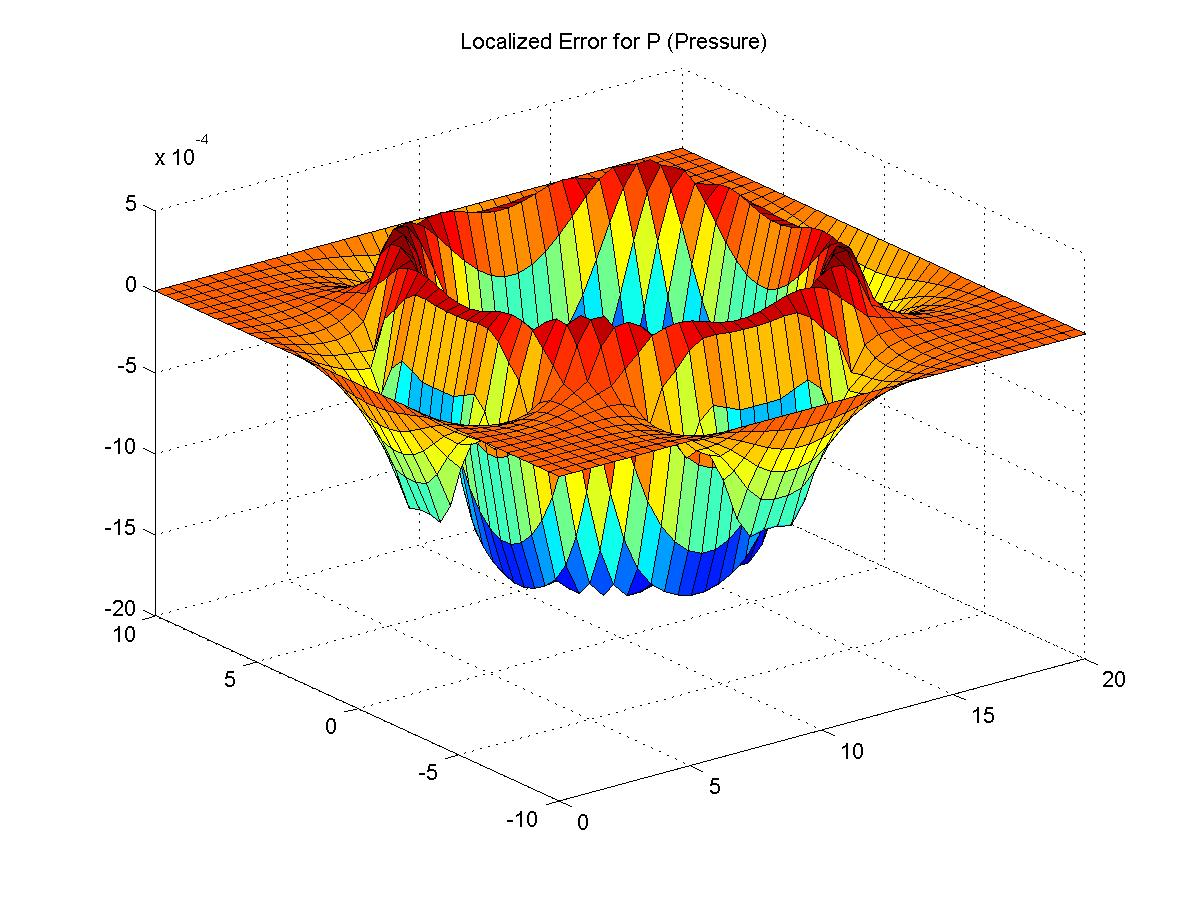
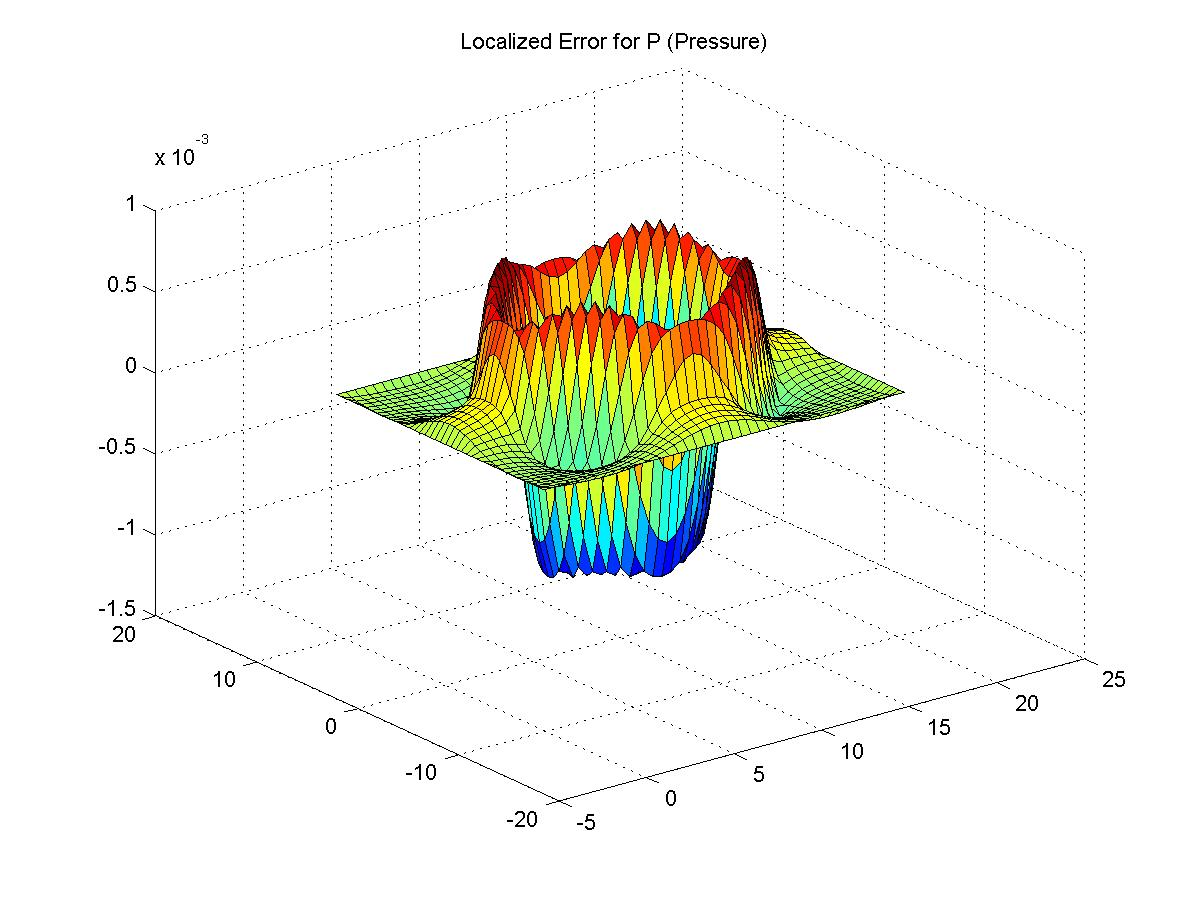
Staggered Grid
Changed to full staggered grid.  We have second order convergence!!!
(Well, slightly under)

diff --git a/Main.m b/Main.m
@@ -20,7 +20,7 @@ width = 20;
 R = 5;
 L = 5;
 %T = .25;
-timeSteps = 5;
+timeSteps = 10;
 
 quivRes = 1;
 %%%%%%%%%%%%%%%%%%%%%%%%%%%%%%%%%%%%%%%%%%%%%%%%%%%%%%%%%%%%%%%%%%%%%%%%%%
@@ -30,25 +30,11 @@ quivRes = 1;
 %Compute Stokes2DPCwith a high discretization and use it as the "analytical" solution
 %%%%%%%%%%%%%%%%%%%%%%%%%%%%%%%%%%%%%%%%%%%%%%%%%%%%%%%%%%%%%%%%%%%%%%%%%%
 %tic;
-[P U V X Y NUMXCELLS NUMYCELLS] = Stokes2DPC(g, 40, p0, mu, height, width, R,L, timeSteps, 0);
+[P U V X Y Xp Yp NUMXCELLS NUMYCELLS] = Stokes2DPC(g, 40, p0, mu, height, width, R,L, timeSteps, 0);
 
 %[P U V X Y NUMXCELLS NUMYCELLS] = pTest(height, width, R, L, timeSteps, 100);
 
 %toc;
-
-% i=2;
-% figure(6);
-% hold on;
-% quiver(X(1:quivRes:end,1:quivRes:end),Y(1:quivRes:end,1:quivRes:end),U(1:quivRes:end,1:quivRes:end, i),V(1:quivRes:end,1:quivRes:end, i));
-% z = (X - (R + L)).^2 + Y.^2 - R^2;
-% contour(X,Y,z,[0,0]);
-% streamline(X,Y,U(:,:,i),V(:,:,i),.1,1);
-% streamline(X,Y,U(:,:,i),V(:,:,i),.1,-1);
-% % streamline(X,Y,U,V,-width / 2, 0.1);
-% % streamline(X,Y,U,V,-width / 2, -0.1);
-% drawnow;
-% hold off;
-
 
 %surf(X,Y,U(:,:,2));
 
@@ -89,7 +75,7 @@ if animate
         title(message);
 
         figure();
-        surf(X,Y,P(:,:,i));
+        surf(Xp,Yp,P(:,:,i));
         message = sprintf('P, t = %f', i);
         title(message);
         drawnow;
@@ -118,29 +104,19 @@ if checkError
     for i = 1:length(testPoints)
         testPoints(i)
         tic;
-        [ p u v x y numXCells numYCells dx(i)] = Stokes2DPC(g, testPoints(i), p0, mu, height, width, R, L, timeSteps, 0);
+        [ p u v x y xp yp numXCells numYCells dx(i)] = Stokes2DPC(g, testPoints(i), p0, mu, height, width, R, L, timeSteps, 0);
         
-        %[p u v x y numXCells numYCells] = pTest(height, width, R, L, timeSteps, testPoints(i));
-        %[p u v x y numXCells numYCells] = pTest(height, width, R, L, timeSteps, 19);
         dx(i) = y(2,1) - y(1,1);
         
         %%%%%Interp must go from coarse to fine, not fine to coarse!!!!!!%%%%%%%
 
-        [P U V] = pTest(x,y,R,L);
+        [P U V] = pTest(x,y,xp,yp,R,L);
         
         if Linf
-%             L2EP(i) = max(max(abs(interp2(x,y,p(:,:,timeSteps),X,Y,'cubic') - P(:,:,timeSteps))));
-%             L2EU(i) = max(max(abs(interp2(x,y,u(:,:,timeSteps),X,Y,'cubic') - U(:,:,timeSteps))));
-%             L2EV(i) = max(max(abs(interp2(x,y,v(:,:,timeSteps),X,Y,'cubic') - V(:,:,timeSteps))));
-
             L2EP(i) = max(max(abs(p(:,:,timeSteps) - P)));
             L2EU(i) = max(max(abs(u(:,:,timeSteps) - U)));
             L2EV(i) = max(max(abs(v(:,:,timeSteps) - V)));
         else
-%             L2EP(i) = L2EP(i) + sum(sum((interp2(x,y,p(:,:,timeSteps),X,Y,'cubic') - P(:,:,timeSteps)).^2));
-%             L2EU(i) = L2EP(i) + sum(sum((interp2(x,y,u(:,:,timeSteps),X,Y,'cubic') - U(:,:,timeSteps)).^2));
-%             L2EV(i) = L2EP(i) + sum(sum((interp2(x,y,v(:,:,timeSteps),X,Y,'cubic') - V(:,:,timeSteps)).^2));
-
             L2EP(i) = L2EP(i) + sum(sum((p(:,:,timeSteps) - P).^2));
             L2EU(i) = L2EP(i) + sum(sum((u(:,:,timeSteps) - U).^2));
             L2EV(i) = L2EP(i) + sum(sum((v(:,:,timeSteps) - V).^2));
@@ -155,7 +131,7 @@ if checkError
 
     figure();
     %surf(x,y, p(:,:,timeSteps) - interp2(X,Y,P(:,:,timeSteps),x,y,'cubic'));
-    surf(x,y, p(:,:,timeSteps) - P);
+    surf(xp,yp, p(:,:,timeSteps) - P);
     %surf(x,y, p(:,:,timeSteps) - P(1:2:end,1:2:end,timeSteps));
     title('Localized Error for P (Pressure)');
     print('LocalPError', '-djpeg');

diff --git a/pTest.m b/pTest.m
@@ -1,16 +1,8 @@
-function [P U V]  = pTest(X,Y,R,L)
-
-% y = linspace(-h / 2, h / 2, ny);
-% dx = y(2) - y(1);
-% nx = round((w / dx) + 1);
-% %X = linspace(-width / 2, width / 2, numXCells);
-% x = linspace(0, w, nx);
-% %x = y + h/2;
-% [X Y] = meshgrid(x,y);
+function [P U V]  = pTest(X,Y,Xp,Yp,R,L)
 
 dx = Y(2,1) - Y(1,1);
 
-P = zeros(size(X));
+P = zeros(size(Xp));
 U = zeros(size(X));
 V = zeros(size(X));
 
@@ -19,20 +11,12 @@ E = .5 * R;
 %E = dx;
 %%%%%%%%%%%%%%%%%%%%%%%%%%%%%%%%%%%%%%%%%%%%%%%
 
-z = sqrt( (X-(L+R)).^2 + Y.^2 ) - R;
+z = sqrt( (Xp-(L+R)).^2 + Yp.^2 ) - R;
 
 id = -E <= z & z <= E;
 id2 = z < -E;
 
 P(id) = -1/(2*R)*(1 - z(id)/E - sin(pi*z(id)/E)/pi);
 P(id2) = -1/(R);
-
-%temp = zeros(ny,nx);
-
-% for i = 1:ts
-%     temp(id) = -1/(2*R)*(1 - z(id)/E - sin(pi*z(id)/E)/pi);
-%     temp(id2) = -1/(R);
-%     P(:,:,i) = temp;
-% end
 
 end
